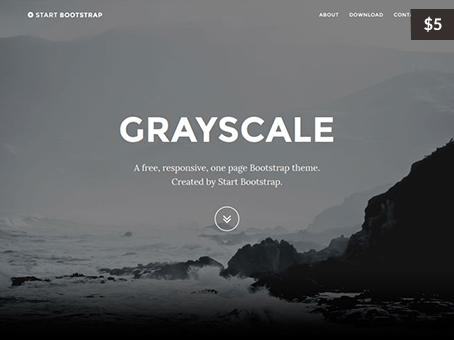
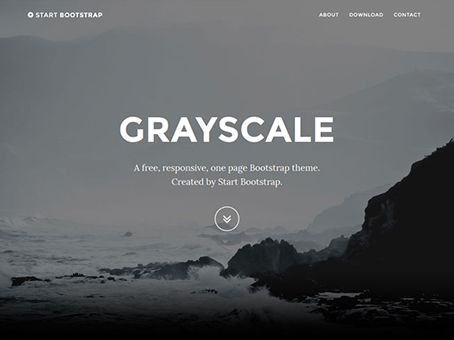
Trial removed, templates free again
- Trial download box removed from download page
- Templates are free to download again

Changed region(s): [[0.8943, 0.0294, 1.0, 0.1176]]

diff --git a/thank-you-trial.html b/thank-you-trial.html
@@ -1,0 +1,130 @@
+<!DOCTYPE html>
+<html lang="en">
+
+<head>
+    <meta http-equiv="Content-Type" content="text/html; charset=utf-8">
+    <meta name="keywords" content="Sitecake, cms, download sitecake, sitecake whitelabel, white label, pricing, sitecake pricing, opensource" />
+    <title>Thank You</title>
+    <meta name="description" content="Thank you for downloading Sitecake" />
+    <meta name="city" content="New York" />
+    <meta name="country" content="US" />
+    <meta name="allow-search" content="yes" />
+    <meta name="robots" content="all, index, follow" />
+    <meta name="copyright" content="Sitecake" />
+    <link rel="shortcut icon" href="img/favicon.ico" type="image/x-icon">
+    <link rel="icon" href="img/favicon.ico" type="image/x-icon">
+    <meta name="viewport" content="width=device-width, initial-scale=1.0, user-scalable=0, minimum-scale=1.0, maximum-scale=1.0">
+    <meta name="apple-mobile-web-app-capable" content="yes">
+    <meta name="apple-mobile-web-app-status-bar-style" content="black">
+
+    <!-- Bootstrap CSS -->
+    <link rel="stylesheet" href="https://cdn.rawgit.com/twbs/bootstrap/v4-dev/dist/css/bootstrap.css">
+    <!-- Font's -->
+    <link href='http://fonts.googleapis.com/css?family=Lato:100,300,400,700,900,100italic,300italic,400italic,700italic,900italic' rel='stylesheet' type='text/css'>
+    <link rel="stylesheet" href="css/fonts.css">
+    <!-- Main CSS -->
+    <link rel="stylesheet" href="css/main.css" type="text/css">
+
+    <!-- Favicons -->
+    <link rel="apple-touch-icon" sizes="57x57" href="/img/favicon/apple-touch-icon-57x57.png?v=yy0966qJGm">
+    <link rel="apple-touch-icon" sizes="60x60" href="/img/favicon/apple-touch-icon-60x60.png?v=yy0966qJGm">
+    <link rel="apple-touch-icon" sizes="72x72" href="/img/favicon/apple-touch-icon-72x72.png?v=yy0966qJGm">
+    <link rel="apple-touch-icon" sizes="76x76" href="/img/favicon/apple-touch-icon-76x76.png?v=yy0966qJGm">
+    <link rel="apple-touch-icon" sizes="114x114" href="/img/favicon/apple-touch-icon-114x114.png?v=yy0966qJGm">
+    <link rel="apple-touch-icon" sizes="120x120" href="/img/favicon/apple-touch-icon-120x120.png?v=yy0966qJGm">
+    <link rel="apple-touch-icon" sizes="144x144" href="/img/favicon/apple-touch-icon-144x144.png?v=yy0966qJGm">
+    <link rel="apple-touch-icon" sizes="152x152" href="/img/favicon/apple-touch-icon-152x152.png?v=yy0966qJGm">
+    <link rel="apple-touch-icon" sizes="180x180" href="/img/favicon/apple-touch-icon-180x180.png?v=yy0966qJGm">
+    <link rel="icon" type="image/png" href="/img/favicon/favicon-32x32.png?v=yy0966qJGm" sizes="32x32">
+    <link rel="icon" type="image/png" href="/img/favicon/favicon-194x194.png?v=yy0966qJGm" sizes="194x194">
+    <link rel="icon" type="image/png" href="/img/favicon/favicon-96x96.png?v=yy0966qJGm" sizes="96x96">
+    <link rel="icon" type="image/png" href="/img/favicon/android-chrome-192x192.png?v=yy0966qJGm" sizes="192x192">
+    <link rel="icon" type="image/png" href="/img/favicon/favicon-16x16.png?v=yy0966qJGm" sizes="16x16">
+    <link rel="manifest" href="/img/favicon/manifest.json?v=yy0966qJGm">
+    <link rel="shortcut icon" href="/img/favicon/favicon.ico?v=yy0966qJGm">
+    <meta name="msapplication-TileColor" content="#61cae9">
+    <meta name="msapplication-TileImage" content="/img/favicon/mstile-144x144.png?v=yy0966qJGm">
+    <meta name="msapplication-config" content="/img/favicon/browserconfig.xml?v=yy0966qJGm">
+    <meta name="theme-color" content="#61cae9">
+    <!-- Facebook Pixel Code -->
+    <script>
+        ! function (f, b, e, v, n, t, s) {
+            if (f.fbq) return;
+            n = f.fbq = function () {
+                n.callMethod ?
+                    n.callMethod.apply(n, arguments) : n.queue.push(arguments)
+            };
+            if (!f._fbq) f._fbq = n;
+            n.push = n;
+            n.loaded = !0;
+            n.version = '2.0';
+            n.queue = [];
+            t = b.createElement(e);
+            t.async = !0;
+            t.src = v;
+            s = b.getElementsByTagName(e)[0];
+            s.parentNode.insertBefore(t, s)
+        }(window,
+            document, 'script', '//connect.facebook.net/en_US/fbevents.js');
+
+        fbq('init', '224938111181968');
+        fbq('track', "PageView");
+    </script>
+    <noscript><img height="1" width="1" style="display:none" src="https://www.facebook.com/tr?id=224938111181968&ev=PageView&noscript=1" /></noscript>
+    <!-- End Facebook Pixel Code -->
+
+</head>
+
+
+<body>
+
+    <div class="container">
+
+        <div class="row">
+            <div class="col-xs-12 thankyou">
+                <img src="img/thumbsup.png" width="120px" />
+                <h1>Thank you for trying Sitecake!</h1>
+                <h2>Please check your email for the download</h2>
+                <p>For questions, issues or suggestions <a href="http://forum.sitecake.com">use our forum </a></p>
+                <p><a href="http://sitecake.com/docs/install.html">Click here for installation instructions</a></p>
+
+            </div>
+        </div>
+
+    </div>
+    <!--container-->
+
+    <script>
+        (function (i, s, o, g, r, a, m) {
+            i['GoogleAnalyticsObject'] = r;
+            i[r] = i[r] || function () {
+                (i[r].q = i[r].q || []).push(arguments)
+            }, i[r].l = 1 * new Date();
+            a = s.createElement(o),
+                m = s.getElementsByTagName(o)[0];
+            a.async = 1;
+            a.src = g;
+            m.parentNode.insertBefore(a, m)
+        })(window, document, 'script', '//www.google-analytics.com/analytics.js', 'ga');
+
+        ga('create', 'UA-11292875-1', 'auto');
+        ga('send', 'pageview');
+    </script>
+    <!-- Google Code for Remarketing Tag -->
+    <script type="text/javascript">
+        /* <![CDATA[ */
+        var google_conversion_id = 948703456;
+        var google_custom_params = window.google_tag_params;
+        var google_remarketing_only = true;
+        /* ]]> */
+    </script>
+    <script type="text/javascript" src="//www.googleadservices.com/pagead/conversion.js">
+    </script>
+    <noscript>
+        <div style="display:inline;">
+            <img height="1" width="1" style="border-style:none;" alt="" src="//googleads.g.doubleclick.net/pagead/viewthroughconversion/948703456/?value=0&amp;guid=ON&amp;script=0" />
+        </div>
+    </noscript>
+</body>
+
+</html>

diff --git a/download.html b/download.html
@@ -137,26 +137,6 @@
         <div class="row">
 
             <div class="col-sm-4 clearfix">
-                <div class="price-box download  ">
-                    <div class="price-text">
-                        <h6>Sitecake TRIAL</h6>
-                        <img src="img/price1.gif" alt="$9/month" />
-                        <p>14 days free trial.
-                            <br>All features included.
-                        </p>
-                        <hr />
-                        <ul>
-                            <li>Unlimited websites</li>
-                            <li>Forum support</li>
-                        </ul>
-                    </div>
-                    <a class="btn btn-block" href="https://app.simplegoods.co/i/PSRKAUGO" target="_blank" onclick="javascript: _gaq.push(['_trackPageview', '/download-trial'])">Download</a>
-                </div>
-
-            </div>
-
-
-            <div class="col-sm-4 clearfix">
                 <div class="price-box download">
                     <div class="price-text">
                         <h6>Sitecake</h6>
@@ -165,8 +145,8 @@
                         <hr />
                         <ul>
                             <li>Unlimited websites</li>
-                            <li><strong>Priority ticket support</strong></li>
-                            <li><strong>All further updates</strong></li>
+                            <li>Ticket support</li>
+                            <li>All further updates</li>
                         </ul>
                     </div>
                     <a class="btn btn-block" href="https://app.simplegoods.co/i/WHDHHIRH" target="_blank" onclick="javascript: _gaq.push(['_trackPageview', '/download-49'])">Download</a>
@@ -175,7 +155,7 @@
 
 
             <div class="col-sm-4  clearfix">
-                <div class="price-box whitelabel">
+                <div class="price-box download">
                     <div class="price-text">
                         <h6>White Label</h6>
                         <img src="img/price3.gif" alt="$249" />
@@ -191,12 +171,22 @@
                 </div>
             </div>
 
-
-
-
-
-
-
+            <div class="col-sm-4 clearfix">
+                <div class="price-box whitelabel ">
+                    <div class="price-text">
+                        <h6>Business License</h6>
+                        <img src="img/call.gif" alt="Contact for the price" />
+                        <p>For SAAS companies who want integration in their solution</p>
+                        <hr />
+                        <ul>
+                            <li>Unlimited websites</li>
+                            <li><strong>Priority ticket support</strong></li>
+                            <li><strong>Custom branded login and toolbar</strong></li>
+                        </ul>
+                    </div>
+                    <a class="btn btn-block" href="mailto:office@sitecake.com" target="_blank" onclick="javascript: _gaq.push(['_trackPageview', '/download-saas'])">Contact Us</a>
+                </div>
+            </div>
 
 
 
@@ -221,7 +211,7 @@
             <div class="col-sm-6">
 
                 <h3>Priority ticket support
-                <p>Ticket support is available for Sitecke Pro and White Label users. All tickets are answered by Sitecake core team, people who built the software. It helps us learn about issues and you get premium support.</p>
+                <p>All tickets are answered by Sitecake core team, people who built the software. It helps us learn about issues and you get premium support. White label and business users get their tickets answered first.</p>
     </h3>
 
 

diff --git a/docs/configuration.html b/docs/configuration.html
@@ -227,7 +227,7 @@
 
                     <p><em>FileUploaderItem.uploadSizeLimit</em> sets maximum image / file size for upload. Sometimes, default of 8192 KB can be a problem for your large images. Feel free to change it.</p>
 
-                    <p><em>Locale.code</em> sets UI language. Default is autodetection based on IP address of the editor. Sitecake UI is translated to 12 languages. More details on localization here</p>
+                    <p><em>Locale.code</em> sets UI language. Default is autodetection based on IP address of the editor. Sitecake UI is translated to 12 languages. Look here for <a href="languages.html">more details on localization</a>.</p>
 
 
                     <h2>CMS configuration</h2>
